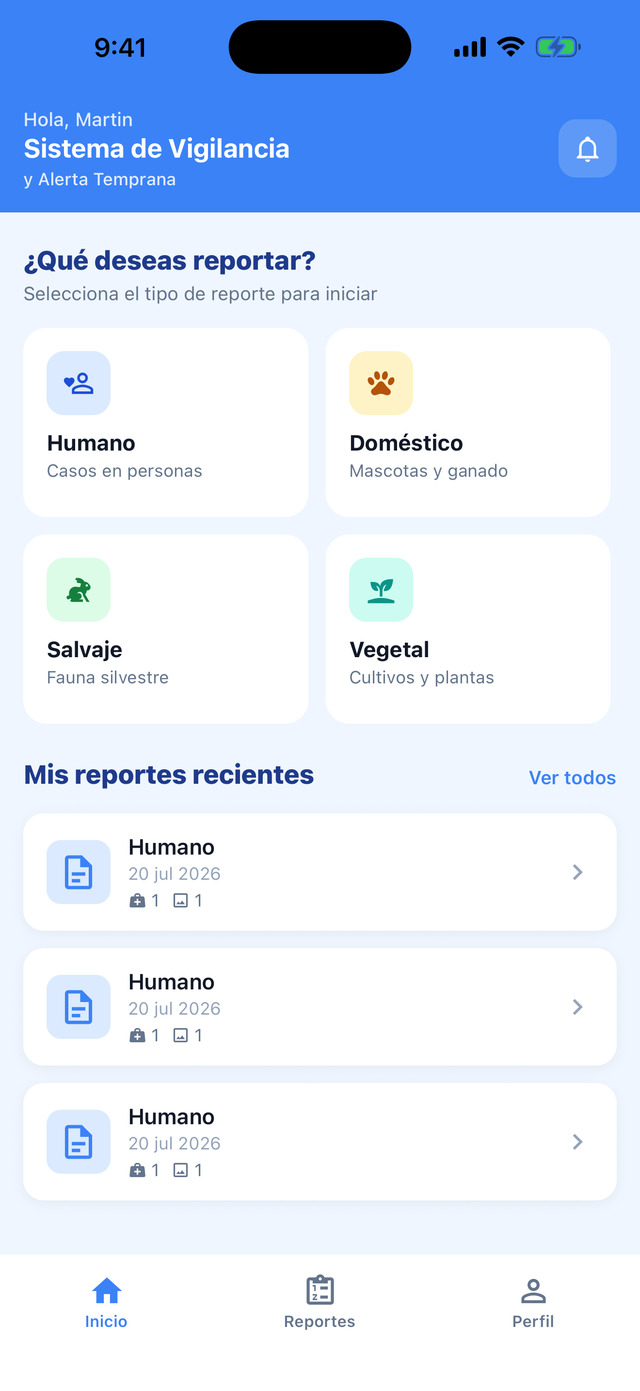
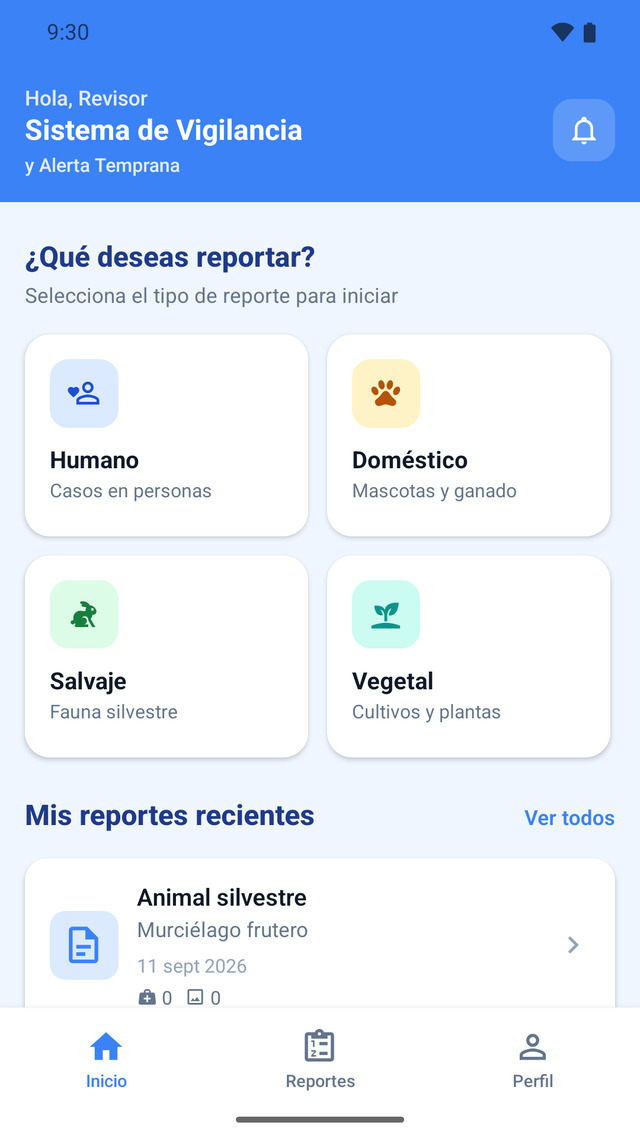
Capturas nuevas con datos reales variados
Las anteriores eran capturas de QA: siete reportes idénticos, un 'E2E Test' y
pantallas de prueba. Se retoman desde el emulador con la cuenta de demostración
y reportes de distintos tipos (silvestre, doméstico, humano), con el build que
ya trae los textos corregidos. La galería vuelve a incluir el mapa.

diff --git a/index.html b/index.html
@@ -199,7 +199,7 @@
     </div>
     <div class="mockup">
       <div class="halo"></div>
-      <div class="telefono"><img src="img/app-inicio.jpg" alt="Pantalla principal de SIVAT con los cuatro tipos de reporte" width="640" height="1391"></div>
+      <div class="telefono"><img src="img/app-inicio.jpg" alt="Pantalla principal de SIVAT con los cuatro tipos de reporte" width="640" height="1138"></div>
     </div>
   </div>
 </div>
@@ -266,9 +266,9 @@
       <p>Tres pantallas del flujo real de la aplicación.</p>
     </div>
     <div class="galeria">
-      <figure><div class="marco"><img src="img/app-inicio.jpg" alt="Pantalla de inicio con los cuatro tipos de reporte" loading="lazy" width="640" height="1391"></div><figcaption>Elige qué reportar</figcaption></figure>
-      <figure><div class="marco"><img src="img/app-sintomas.jpg" alt="Selección de síntomas en el asistente de reporte" loading="lazy" width="560" height="1217"></div><figcaption>Responde el asistente</figcaption></figure>
-      <figure><div class="marco"><img src="img/app-reportes.jpg" alt="Historial de reportes enviados" loading="lazy" width="560" height="1217"></div><figcaption>Sigue tus reportes</figcaption></figure>
+      <figure><div class="marco"><img src="img/app-sintomas.jpg" alt="Selección de síntomas en el asistente de reporte" loading="lazy" width="560" height="996"></div><figcaption>Responde el asistente</figcaption></figure>
+      <figure><div class="marco"><img src="img/app-mapa.jpg" alt="Mapa de Darién con el punto del reporte marcado" loading="lazy" width="560" height="996"></div><figcaption>Ubica el caso en el mapa</figcaption></figure>
+      <figure><div class="marco"><img src="img/app-reportes.jpg" alt="Historial de reportes enviados" loading="lazy" width="560" height="996"></div><figcaption>Sigue tus reportes</figcaption></figure>
     </div>
   </div>
 </section>
